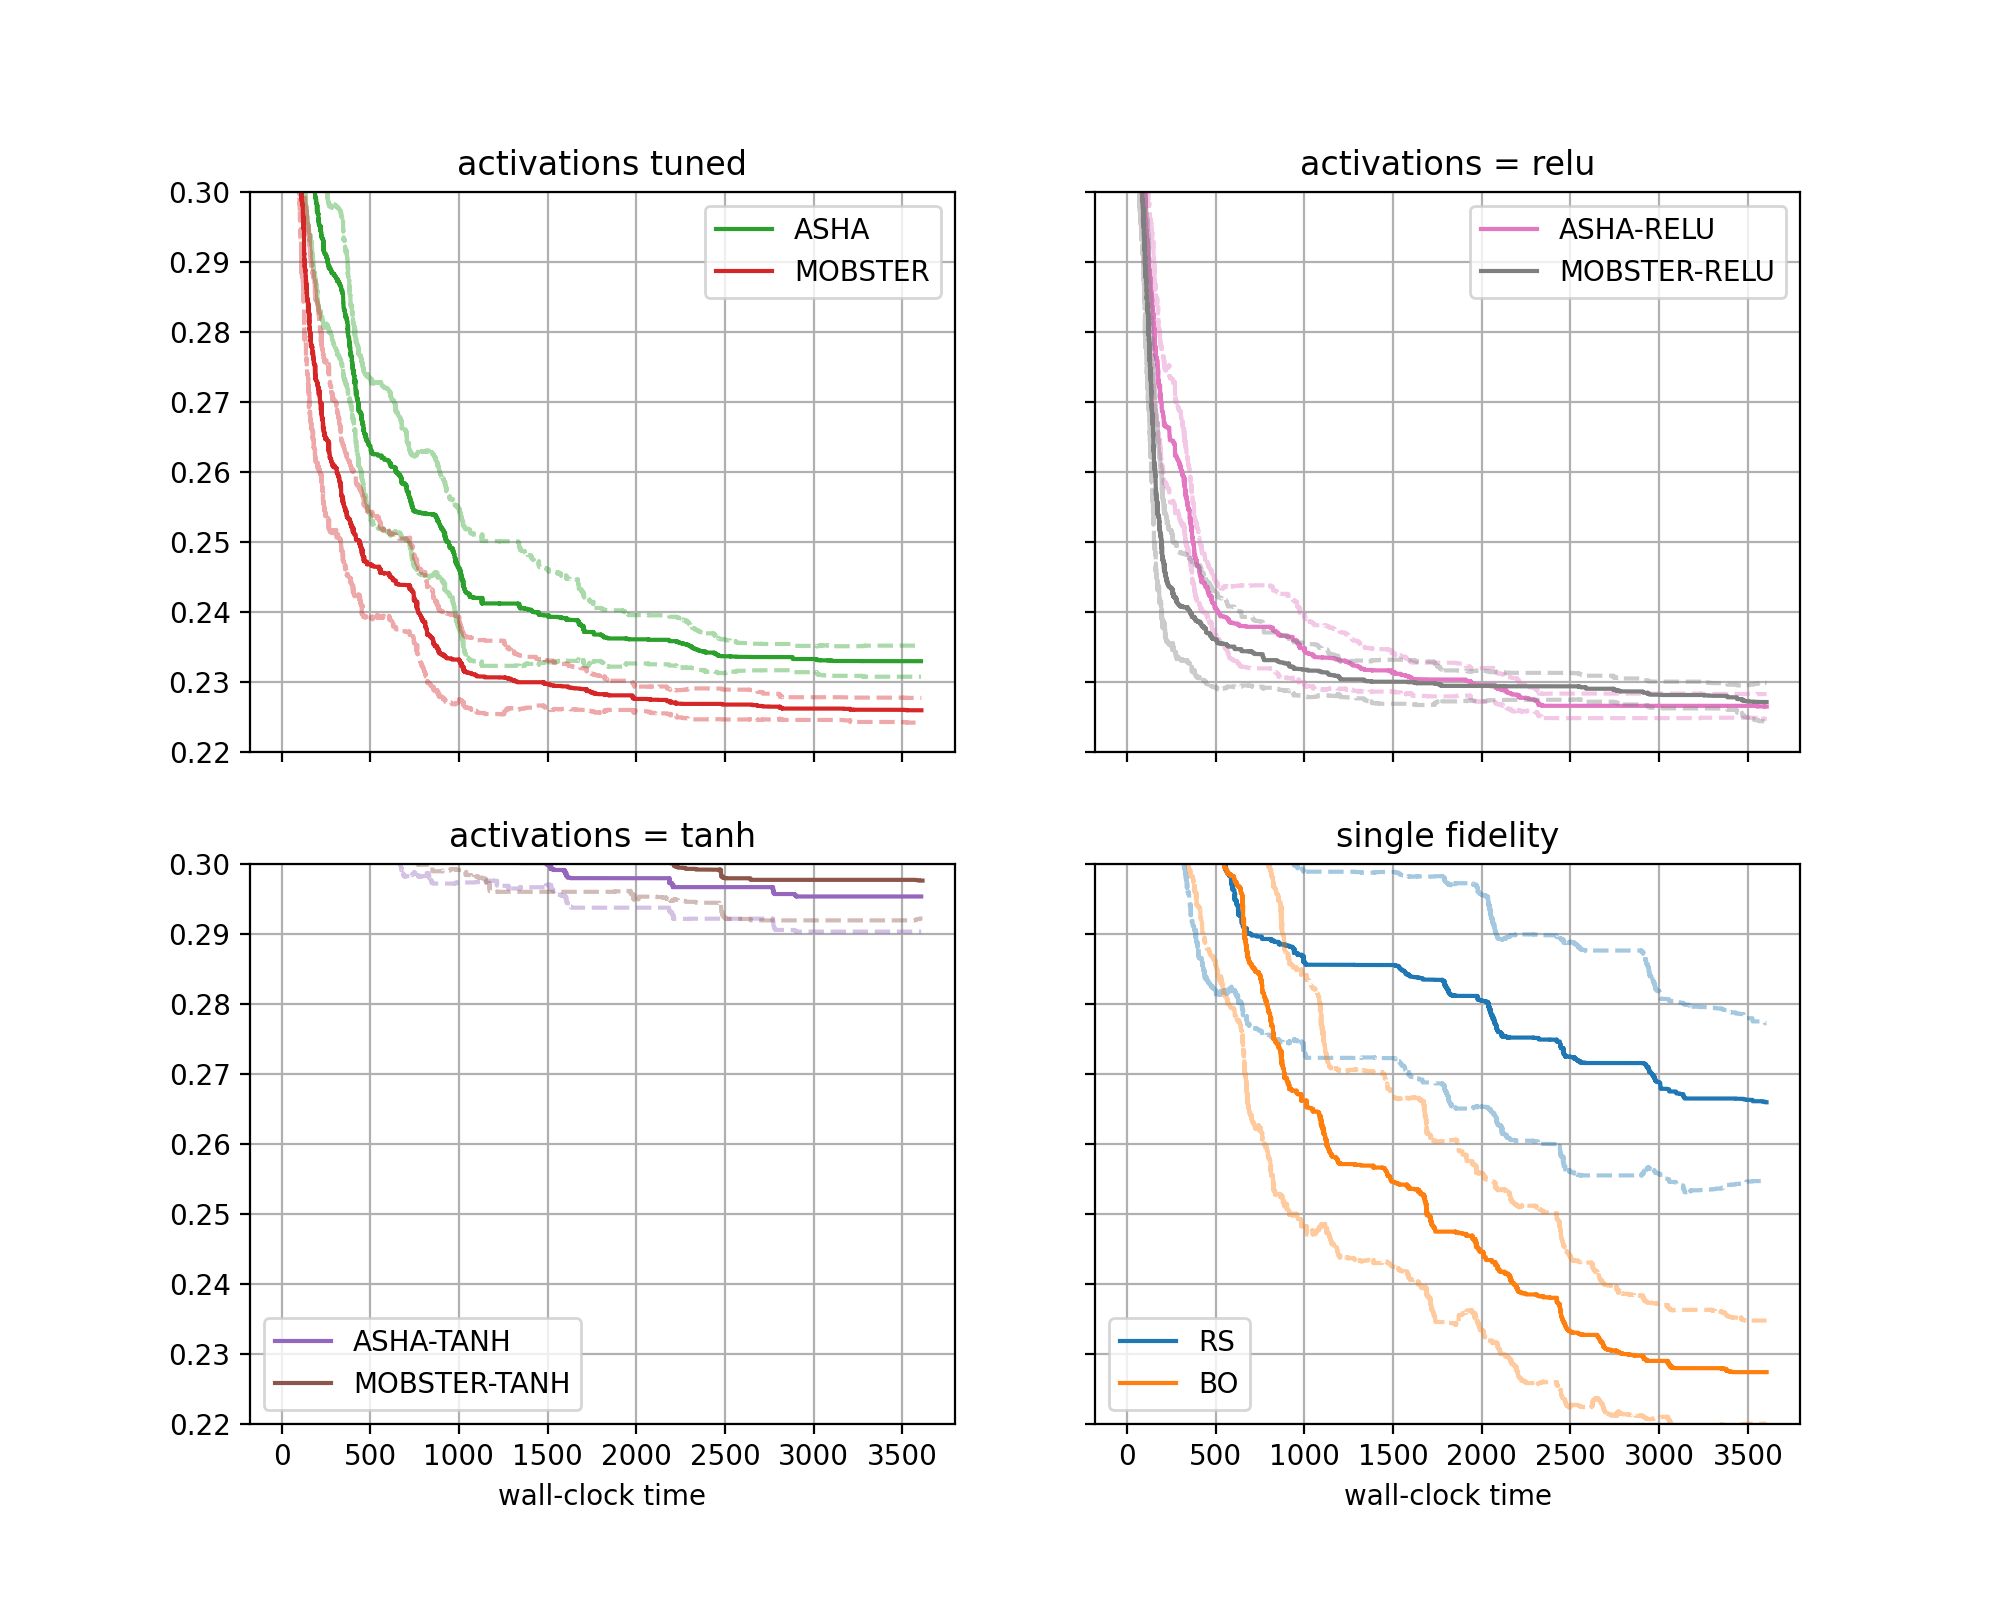
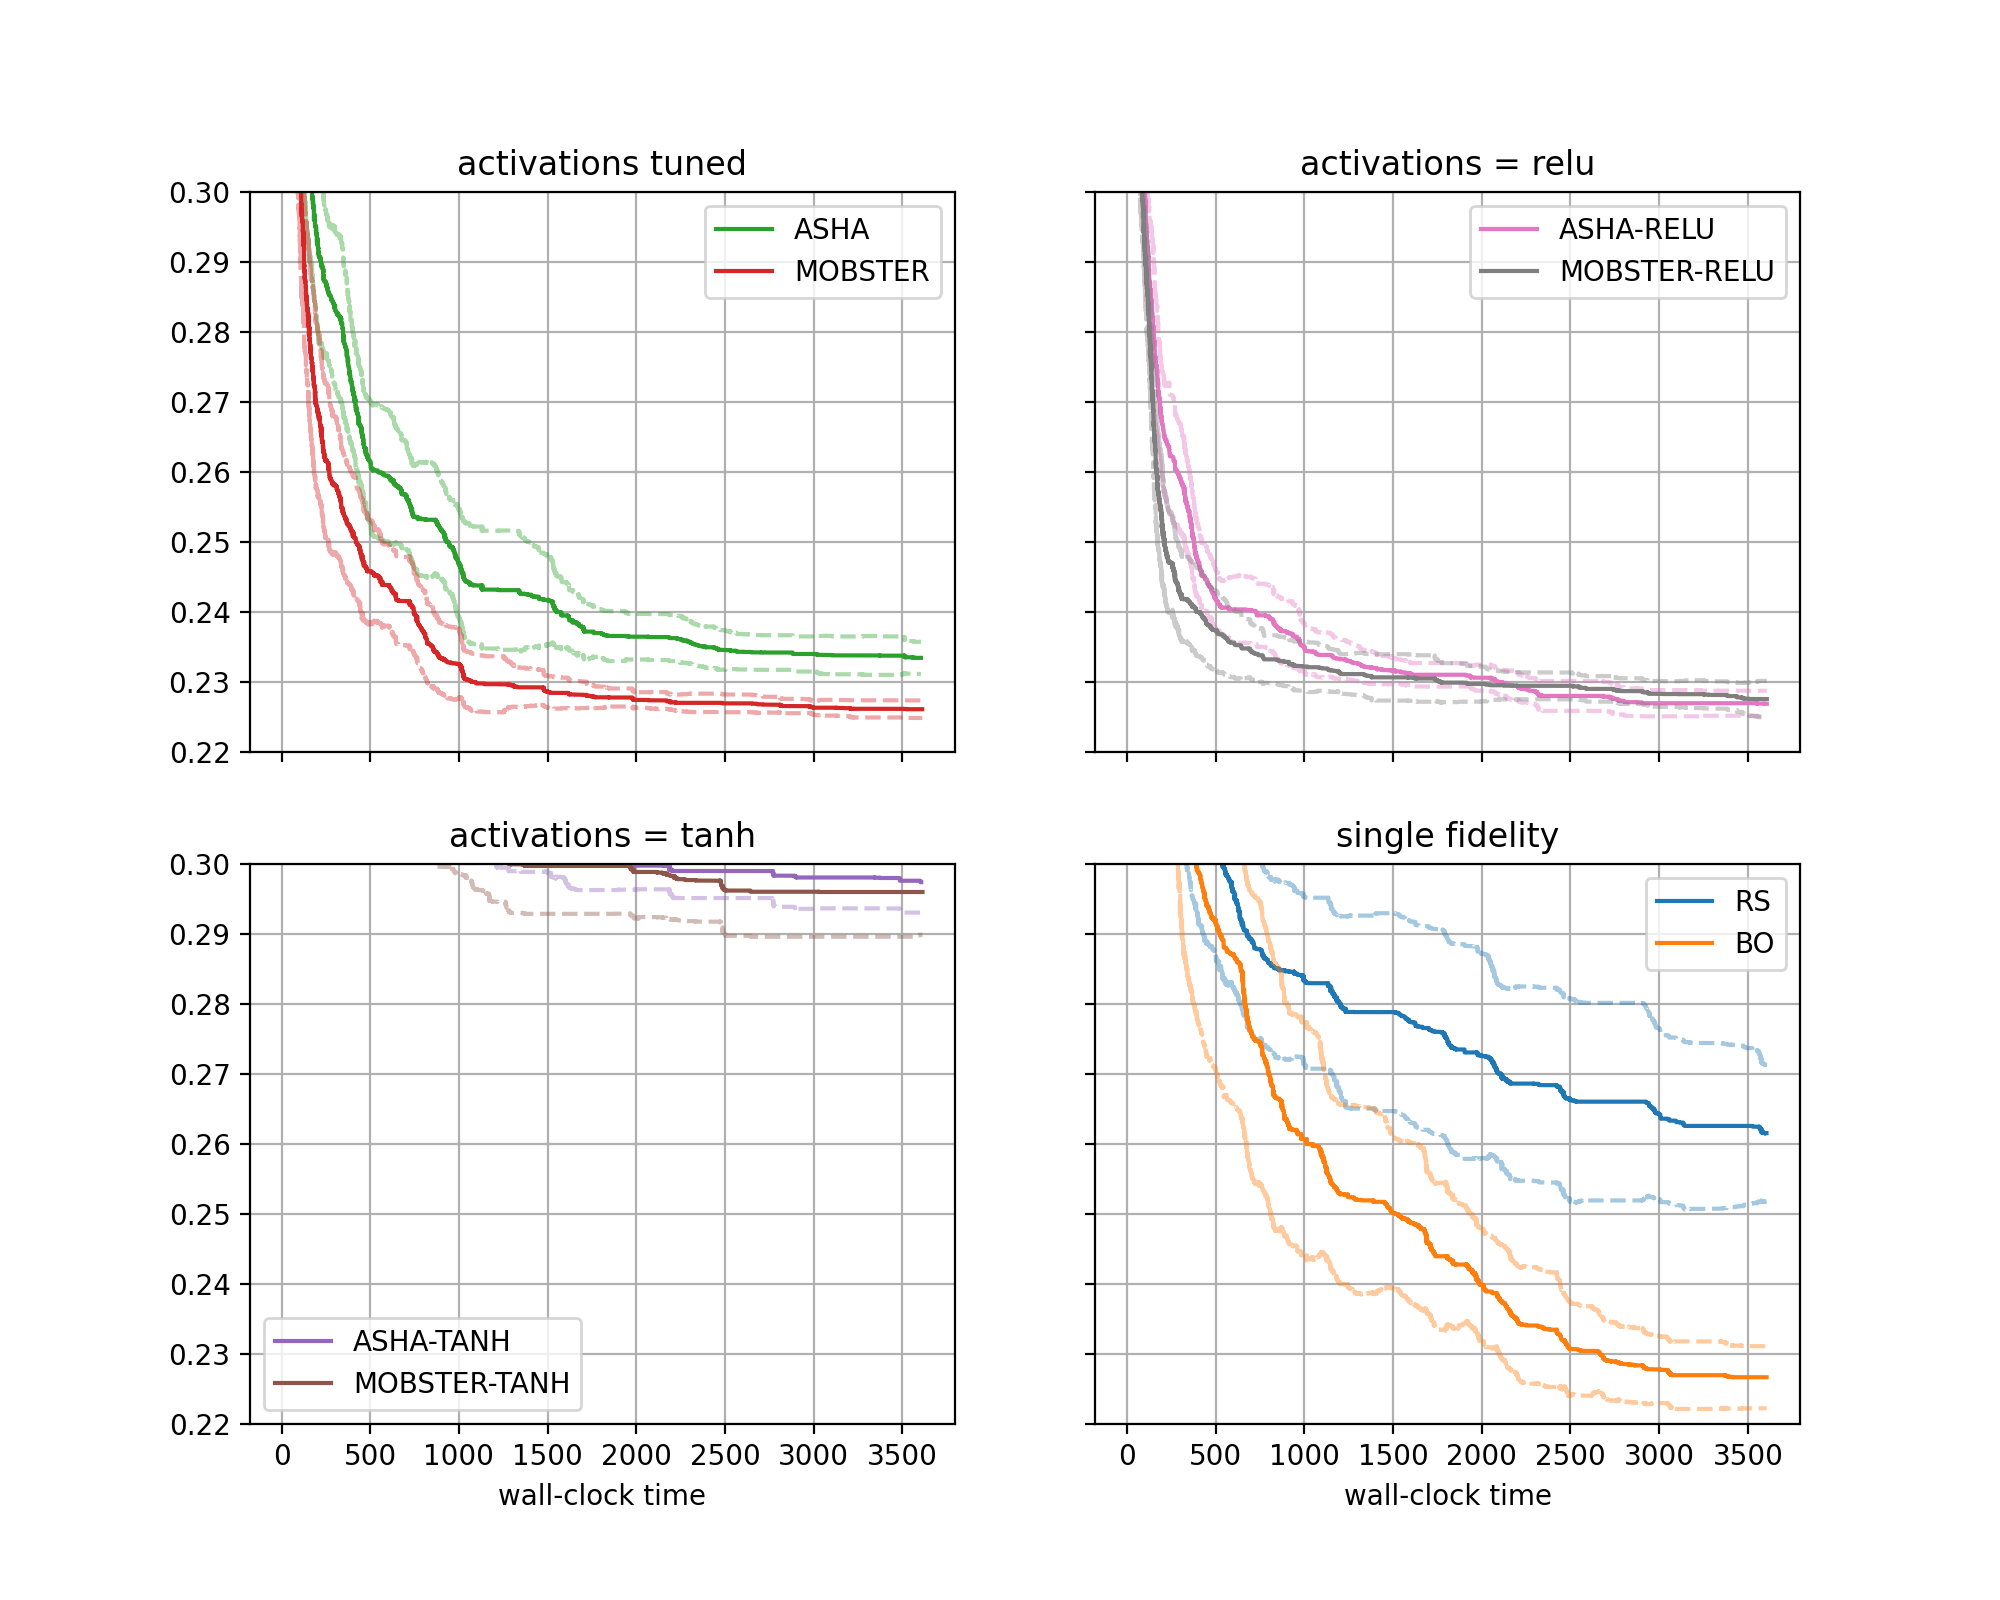
15 -> 20 seeds

diff --git a/benchmarking/nursery/demo_experiment/plot_results.py b/benchmarking/nursery/demo_experiment/plot_results.py
@@ -60,7 +60,7 @@ if __name__ == "__main__":
     experiment_name = "docs-2"
     experiment_names = (experiment_name,)
     setups = list(methods.keys())
-    num_runs = 15
+    num_runs = 20
     download_from_s3 = False  # Set ``True`` in order to download files from S3
     # Plot parameters across all benchmarks
     plot_params = PlotParameters(

diff --git a/docs/source/tutorials/experimentation/exp_plotting.rst b/docs/source/tutorials/experimentation/exp_plotting.rst
@@ -44,41 +44,41 @@ Moreover, we obtain an output for extra results, as follows:
 .. code-block:: bash
 
    [ASHA]:
-     num_at_level1: [607, 630, 802, 728, 669, 689, 740, 837, 786, 501, 642, 554, 625, 531, 672]
-     num_at_level3: [234, 224, 273, 257, 247, 238, 271, 287, 272, 185, 227, 195, 216, 197, 241]
-     num_at_level9: [97, 81, 99, 95, 99, 99, 106, 99, 98, 74, 86, 78, 82, 85, 101]
-     num_at_level27: [49, 36, 37, 36, 41, 47, 37, 39, 39, 39, 44, 41, 30, 45, 49]
-     num_at_level81: [22, 17, 18, 15, 21, 22, 19, 13, 23, 27, 29, 20, 17, 20, 26]
+     num_at_level1: [607, 630, 802, 728, 669, 689, 740, 610, 566, 724, 691, 812, 837, 786, 501, 642, 554, 625, 531, 672]
+     num_at_level3: [234, 224, 273, 257, 247, 238, 271, 222, 191, 256, 240, 273, 287, 272, 185, 227, 195, 216, 197, 241]
+     num_at_level9: [97, 81, 99, 95, 99, 99, 106, 92, 73, 98, 90, 95, 99, 98, 74, 86, 78, 82, 85, 101]
+     num_at_level27: [49, 36, 37, 36, 41, 47, 37, 43, 36, 35, 34, 37, 39, 39, 39, 44, 41, 30, 45, 49]
+     num_at_level81: [22, 17, 18, 15, 21, 22, 19, 26, 20, 15, 16, 13, 13, 23, 27, 29, 20, 17, 20, 26]
    [MOBSTER]:
-     num_at_level1: [217, 311, 310, 353, 197, 96, 377, 247, 282, 175, 302, 187, 225, 182, 240]
-     num_at_level3: [107, 133, 124, 138, 104, 64, 163, 123, 112, 110, 129, 90, 100, 86, 126]
-     num_at_level9: [53, 62, 55, 59, 66, 51, 83, 54, 51, 72, 65, 60, 49, 55, 70]
-     num_at_level27: [29, 34, 30, 26, 50, 37, 49, 27, 28, 49, 33, 42, 27, 34, 45]
-     num_at_level81: [18, 20, 16, 14, 33, 25, 37, 17, 20, 32, 24, 29, 15, 26, 31]
+     num_at_level1: [217, 311, 310, 353, 197, 96, 377, 135, 364, 336, 433, 374, 247, 282, 175, 302, 187, 225, 182, 240]
+     num_at_level3: [107, 133, 124, 138, 104, 64, 163, 72, 157, 132, 146, 140, 123, 112, 110, 129, 90, 100, 86, 126]
+     num_at_level9: [53, 62, 55, 59, 66, 51, 83, 47, 72, 55, 54, 59, 54, 51, 72, 65, 60, 49, 55, 70]
+     num_at_level27: [29, 34, 30, 26, 50, 37, 49, 31, 27, 25, 23, 28, 27, 28, 49, 33, 42, 27, 34, 45]
+     num_at_level81: [18, 20, 16, 14, 33, 25, 37, 24, 13, 17, 10, 14, 17, 20, 32, 24, 29, 15, 26, 31]
    [ASHA-TANH]:
-     num_at_level1: [668, 861, 755, 775, 644, 916, 819, 769, 710, 862, 807, 859, 699, 757, 794]
-     num_at_level3: [237, 295, 265, 272, 221, 311, 302, 276, 240, 297, 290, 304, 258, 270, 279]
-     num_at_level9: [86, 112, 101, 97, 91, 104, 119, 98, 90, 108, 120, 105, 109, 105, 102]
-     num_at_level27: [37, 47, 39, 39, 40, 39, 45, 44, 40, 45, 43, 38, 53, 49, 39]
-     num_at_level81: [21, 16, 16, 16, 20, 16, 17, 21, 20, 17, 19, 16, 19, 23, 20]
+     num_at_level1: [668, 861, 755, 775, 644, 916, 819, 710, 694, 870, 764, 786, 769, 710, 862, 807, 859, 699, 757, 794]
+     num_at_level3: [237, 295, 265, 272, 221, 311, 302, 246, 246, 294, 278, 280, 276, 240, 297, 290, 304, 258, 270, 279]
+     num_at_level9: [86, 112, 101, 97, 91, 104, 119, 90, 92, 104, 98, 96, 98, 90, 108, 120, 105, 109, 105, 102]
+     num_at_level27: [37, 47, 39, 39, 40, 39, 45, 44, 39, 41, 41, 44, 44, 40, 45, 43, 38, 53, 49, 39]
+     num_at_level81: [21, 16, 16, 16, 20, 16, 17, 18, 17, 14, 18, 21, 21, 20, 17, 19, 16, 19, 23, 20]
    [MOBSTER-TANH]:
-     num_at_level1: [438, 594, 462, 354, 307, 324, 317, 516, 391, 408, 565, 492, 322, 350, 479]
-     num_at_level3: [166, 206, 156, 135, 133, 127, 129, 178, 169, 151, 204, 164, 122, 132, 205]
-     num_at_level9: [69, 75, 56, 54, 78, 60, 57, 72, 103, 67, 77, 63, 48, 59, 92]
-     num_at_level27: [36, 35, 25, 28, 45, 37, 27, 37, 58, 31, 36, 26, 28, 33, 39]
-     num_at_level81: [20, 13, 12, 11, 23, 20, 13, 18, 31, 16, 18, 11, 16, 19, 21]
+     num_at_level1: [438, 594, 462, 354, 307, 324, 317, 359, 483, 523, 569, 492, 516, 391, 408, 565, 492, 322, 350, 479]
+     num_at_level3: [166, 206, 156, 135, 133, 127, 129, 131, 175, 211, 191, 165, 178, 169, 151, 204, 164, 122, 132, 205]
+     num_at_level9: [69, 75, 56, 54, 78, 60, 57, 60, 76, 80, 72, 56, 72, 103, 67, 77, 63, 48, 59, 92]
+     num_at_level27: [36, 35, 25, 28, 45, 37, 27, 36, 46, 27, 37, 26, 37, 58, 31, 36, 26, 28, 33, 39]
+     num_at_level81: [20, 13, 12, 11, 23, 20, 13, 20, 23, 10, 13, 9, 18, 31, 16, 18, 11, 16, 19, 21]
    [ASHA-RELU]:
-     num_at_level1: [599, 670, 682, 817, 608, 585, 770, 618, 718, 613, 674, 715, 638, 598, 652]
-     num_at_level3: [201, 246, 242, 277, 225, 209, 282, 215, 245, 207, 239, 238, 224, 221, 234]
-     num_at_level9: [75, 94, 94, 100, 89, 92, 101, 80, 98, 86, 96, 83, 84, 90, 91]
-     num_at_level27: [37, 43, 36, 34, 40, 45, 39, 38, 39, 35, 34, 29, 34, 41, 35]
-     num_at_level81: [23, 19, 14, 13, 19, 21, 15, 19, 18, 20, 16, 13, 15, 22, 17]
+     num_at_level1: [599, 670, 682, 817, 608, 585, 770, 397, 613, 721, 599, 601, 618, 718, 613, 674, 715, 638, 598, 652]
+     num_at_level3: [201, 246, 242, 277, 225, 209, 282, 140, 212, 245, 202, 205, 215, 245, 207, 239, 238, 224, 221, 234]
+     num_at_level9: [75, 94, 94, 100, 89, 92, 101, 60, 78, 89, 76, 82, 80, 98, 86, 96, 83, 84, 90, 91]
+     num_at_level27: [37, 43, 36, 34, 40, 45, 39, 35, 34, 31, 40, 40, 38, 39, 35, 34, 29, 34, 41, 35]
+     num_at_level81: [23, 19, 14, 13, 19, 21, 15, 24, 17, 13, 20, 18, 19, 18, 20, 16, 13, 15, 22, 17]
    [MOBSTER-RELU]:
-     num_at_level1: [241, 319, 352, 438, 354, 386, 197, 359, 401, 334, 294, 361, 403, 178, 141]
-     num_at_level3: [110, 156, 135, 166, 138, 143, 104, 133, 151, 130, 122, 134, 151, 92, 74]
-     num_at_level9: [50, 83, 59, 75, 59, 55, 57, 62, 63, 61, 54, 52, 65, 48, 47]
-     num_at_level27: [31, 51, 29, 31, 29, 23, 39, 32, 29, 32, 29, 24, 27, 31, 34]
-     num_at_level81: [20, 35, 12, 11, 12, 15, 22, 16, 15, 20, 15, 15, 13, 18, 22]
+     num_at_level1: [241, 319, 352, 438, 354, 386, 197, 262, 203, 387, 320, 139, 359, 401, 334, 294, 361, 403, 178, 141]
+     num_at_level3: [110, 156, 135, 166, 138, 143, 104, 124, 95, 136, 133, 71, 133, 151, 130, 122, 134, 151, 92, 74]
+     num_at_level9: [50, 83, 59, 75, 59, 55, 57, 72, 53, 53, 58, 40, 62, 63, 61, 54, 52, 65, 48, 47]
+     num_at_level27: [31, 51, 29, 31, 29, 23, 39, 38, 36, 20, 29, 36, 32, 29, 32, 29, 24, 27, 31, 34]
+     num_at_level81: [20, 35, 12, 11, 12, 15, 22, 18, 26, 12, 16, 27, 16, 15, 20, 15, 15, 13, 18, 22]
 
 More details about plotting are given in
 `this tutorial <../benchmarking/bm_plotting.html#visualization-of-results>`__.
@@ -88,7 +88,7 @@ Here, we only explain our specific example:
   curves in bold, along with confidence intervals. The horizontal axis
   depicts wall-clock time, and on the vertical axis, we show the best
   metric value found until this time.
-* More general, the data from our 480 experiments can be grouped w.r.t.
+* More general, the data from our 640 experiments can be grouped w.r.t.
   subplot, then *setup*. Each setup gives rise to one curve (bold, with
   confidence band). Subplots are optional, the default is to plot a single
   figure.

diff --git a/docs/source/tutorials/experimentation/exp_setup.rst b/docs/source/tutorials/experimentation/exp_setup.rst
@@ -140,7 +140,7 @@ and continue other work on our local machine:
 * Experiments with our setups ``RS``, ``BO``, ``ASHA-TANH``, ``MOBSTER-TANH``,
   ``ASHA-RELU``, ``MOBSTER-RELU``, ``ASHA``, ``MOBSTER`` are independent and
   can be run in parallel.
-* We repeat each experiment 15 times, in order to quantify the random
+* We repeat each experiment 20 times, in order to quantify the random
   fluctuation in the results. These seeds are independent and can be run
   in parallel.
 * We could also run experiments with different benchmarks (i.e., datasets in
@@ -159,13 +159,13 @@ Running experiments in parallel requires a remote launcher script:
   :func:`~benchmarking.commons.launch_remote_sagemaker.launch_remote`,
   depending on the trial backend.
 * In ``is_expensive_method``, we pass a predicate from method name. If
-  ``is_expensive_method(method)`` is ``True``, the 15 different seeds are
+  ``is_expensive_method(method)`` is ``True``, the 20 different seeds are
   run in parallel. Otherwise, they are run sequentially.
 * In our example, we know that ``BO`` and ``MOBSTER`` run quite a bit slower
   in the simulator than ``RS`` and ``ASHA``, so we label the former as expensive.
   This means we have 4 expensive methods and 4 cheap ones, and our complete
-  study will launch ``4 + 4 * 15 = 64`` SageMaker training jobs. Since
-  ``fcnet`` contains four benchmarks, we run ``8 * 15 * 4 = 480`` experiments
+  study will launch ``4 + 4 * 20 = 84`` SageMaker training jobs. Since
+  ``fcnet`` contains four benchmarks, we run ``8 * 20 * 4 = 640`` experiments
   in total.
 
 All of these experiments can be launched with a single command:
@@ -173,7 +173,7 @@ All of these experiments can be launched with a single command:
 .. code-block:: bash
 
    python benchmarking/nursery/demo_experiment/launch_remote.py \
-     --experiment_tag docs-2 --random_seed 2465497701 --num_seeds 15
+     --experiment_tag docs-2 --random_seed 2465497701 --num_seeds 20
 
 Avoiding Costly Failures
 ~~~~~~~~~~~~~~~~~~~~~~~~
@@ -213,10 +213,10 @@ Finally, if this looks good, we can launch all the rest:
 .. code-block:: bash
 
    python benchmarking/nursery/demo_experiment/launch_remote.py \
-     --experiment_tag docs-2 --random_seed 2465497701 --num_seeds 15 \
+     --experiment_tag docs-2 --random_seed 2465497701 --num_seeds 20 \
      --start_seed 1
 
-This is launching all remaining experiments with ``seed`` from 1 to 14.
+This is launching all remaining experiments with ``seed`` from 1 to 19.
 
 .. note::
    If something breaks when remotely launching for ``seed=0``, it may be that
